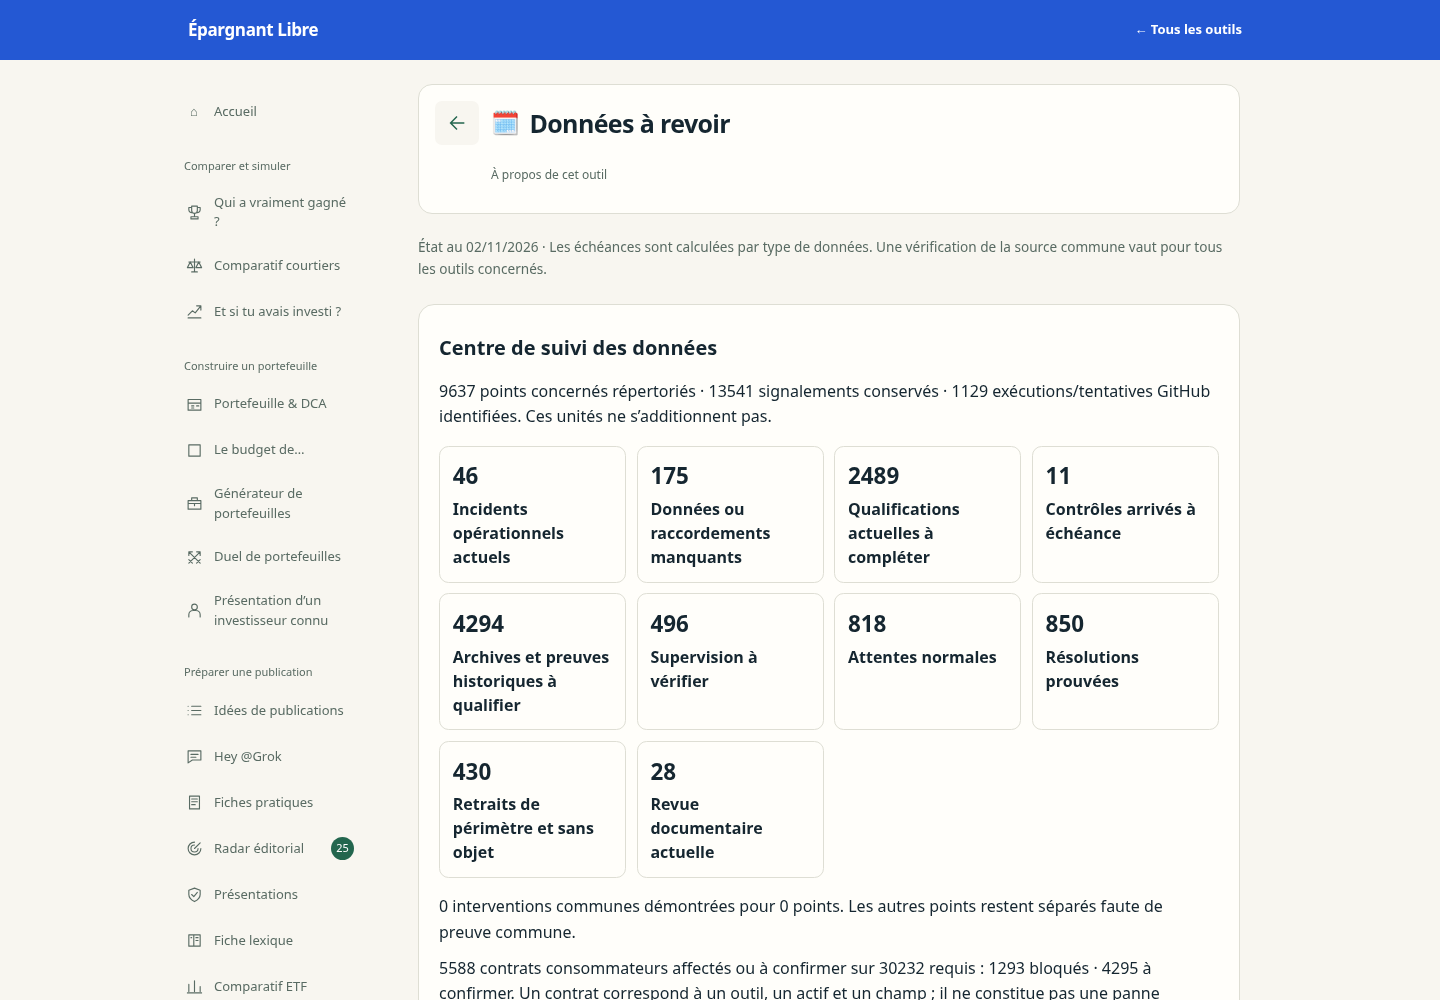
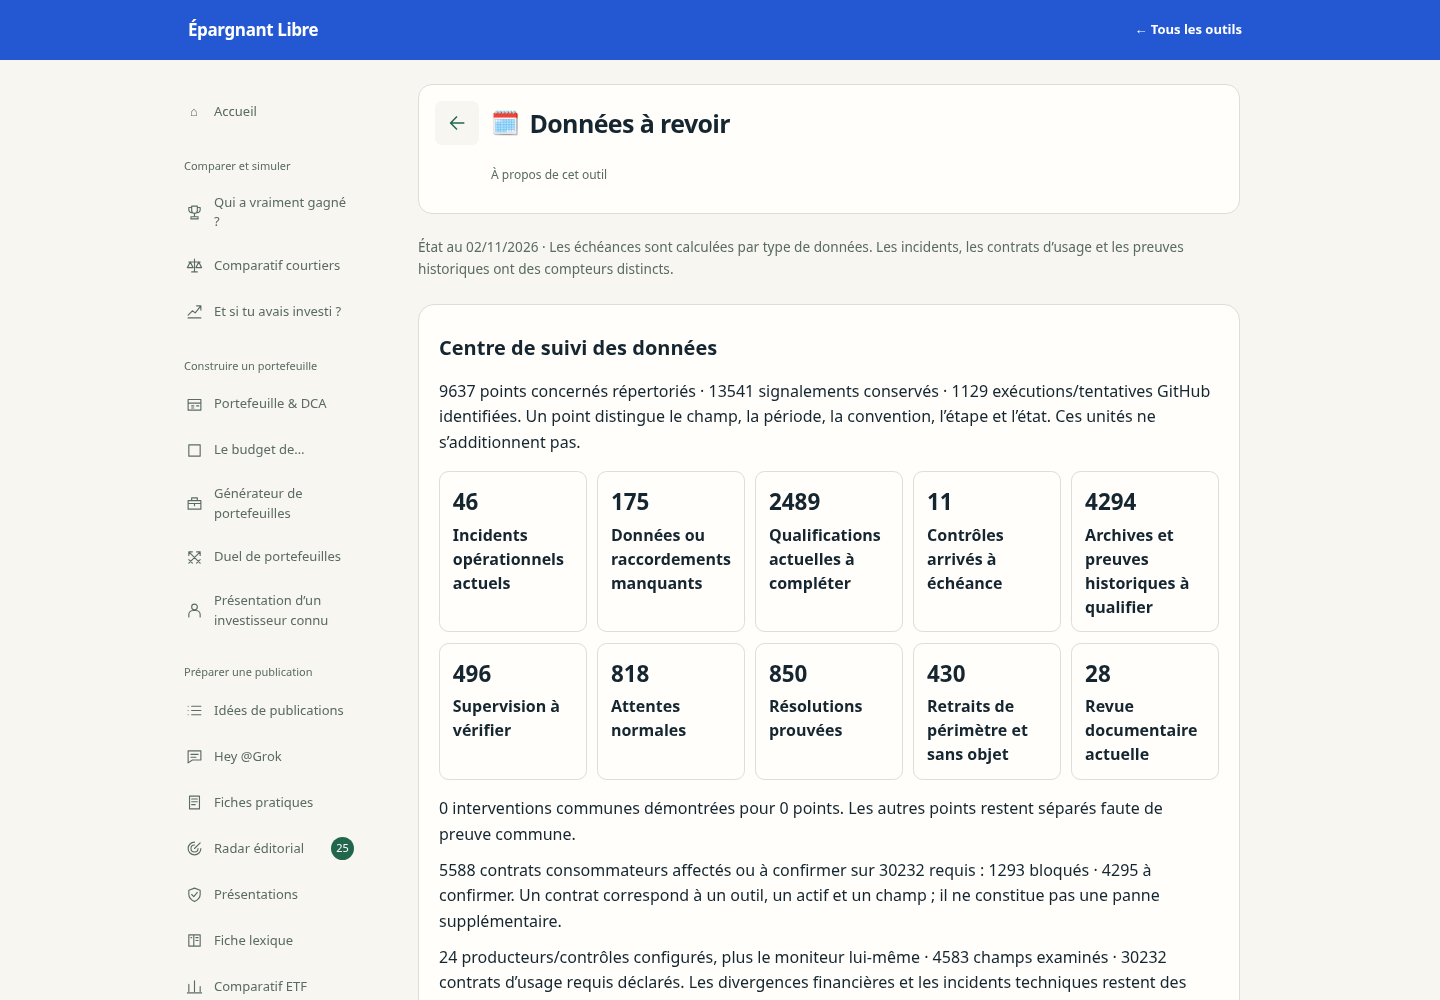
Verify source document journeys and retain exact diagnostic links

diff --git a/src/pages/data-review/ReviewInbox.jsx b/src/pages/data-review/ReviewInbox.jsx
@@ -36,6 +36,6 @@ export default function ReviewInbox({status,transportError,review}){
  const groups=groupReviewIssues(rows)
  async function copy(row){const text=inboxDiagnostic(row);setCopied('');setManual(null);try{await navigator.clipboard.writeText(text);setCopied(row.id)}catch{setManual({id:row.id,text})}}
  function download(complete=false){const exported=complete?report.issues:rows;const blob=new Blob([JSON.stringify({generatedAt:new Date().toISOString(),monitorCheckedAt:status?.monitoring?.checkedAt,reportArchiveSchemaVersion:status?.reportArchiveSchemaVersion,reportScopeSchemaVersion:status?.reportScopeSchemaVersion,reportScopes:status?.reportScopes??{},filters:complete?{kind:'all'}:{query,kind,tool,stage},summary:report.summary,denominators:{fields:report.examinedFields,workflows:report.workflows,requiredConsumerContracts:report.requiredUsages},rows:exported},null,2)],{type:'application/json'});const url=URL.createObjectURL(blob);try{const a=document.createElement('a');a.href=url;a.download='donnees-a-revoir.json';a.click()}finally{setTimeout(()=>URL.revokeObjectURL(url),1000)}}
- const card=r=><article className="dr-item" key={r.id} id={'issue-'+encodeURIComponent(r.id)}><span className={'dr-badge '+(r.kind==='failure'?'dr-expired':action(r)?'dr-undated':'dr-neutral')}>{ISSUE_KINDS[r.kind]}</span><h3>{r.name} · {r.field}</h3><p>{r.cause}</p><p><strong>Étape :</strong> {r.stage}. {r.impact??'Ce signal concerne le champ et les usages ci-dessous ; les autres capacités restent distinctes.'}</p><dl><dt>Chantier responsable</dt><dd>{reviewOwner(r)}</dd><dt>Impact</dt><dd>{r.impactState??'À qualifier : seuls les usages explicitement liés sont indiqués'}</dd><dt>Actif / identifiant</dt><dd>{r.asset??r.dataId??r.id}</dd><dt>{r.impactQualified===false?'Périmètre des outils, impact à qualifier':'Outils concernés'}</dt><dd>{r.tools.join(' · ')||'Périmètre à documenter'}</dd><dt>Dernière valeur valide</dt><dd>{r.lastValidValue!=null?JSON.stringify(r.lastValidValue):'Valeur non fournie par ce rapport ; consulter la donnée liée'}</dd><dt>Dernière donnée valide / période</dt><dd>{r.asOf??'Non documentée'}</dd><dt>Dernier contrôle réussi</dt><dd>{r.lastSuccessAt??r.checkedAt??'Non documenté'}</dd><dt>Dernière tentative</dt><dd>{r.attemptedAt??'Non documentée'}</dd><dt>Preuve nécessaire pour clôturer</dt><dd>{closureRequirement(r)}</dd><dt>Reprise</dt><dd>{r.kind==='waiting'?(r.workflow?'Suivre l’exécution GitHub liée':'Suivre le calendrier de publication'):r.kind==='not-applicable'||r.kind==='history'||r.kind==='archive'?'Aucune reprise déduite de cet état historique':r.kind==='editorial'?'Relecture éditoriale à l’échéance':r.recovery?.status??'Intervention / contrôle du producteur nécessaire'}{r.recovery?.nextAttemptAt&&' · '+r.recovery.nextAttemptAt}</dd></dl><p>{r.action??'Consulter les sources et l’exécution ; une nouvelle tentative ne démontre pas la résolution.'}</p><details><summary>{r.signals.length} signalement(s) et preuves conservés</summary>{r.signals.map(s=><div key={s.id}><p>Chantier : {reviewOwner(s)} · {s.id} · {s.cause} · période {s.asOf??'non documentée'} · contrôle {s.lastSuccessAt??s.checkedAt??'non documenté'}</p>{s.collectorTools?.length>0&&<p>Périmètre du collecteur, impact individuel non établi : {s.collectorTools.join(' · ')}</p>}{s.evidence&&<pre>Preuve du rapport : {JSON.stringify(s.evidence,null,2)}</pre>}{s.observations?.length>0&&<details><summary>{s.observations.length} observations et tentatives conservées</summary><pre>{JSON.stringify(s.observations,null,2)}</pre></details>}</div>)}{r.sourceUrls.filter(safeUrl).map(url=><p key={url}><a href={url} target="_blank" rel="noreferrer">{url}</a></p>)}</details><div className="dr-links"><button onClick={()=>copy(r)}>Copier le diagnostic complet</button>{safeUrl(r.runUrl)&&<a href={r.runUrl} target="_blank" rel="noreferrer">Exécution et journaux ↗</a>}{r.to&&/^\/(?!\/)/.test(r.to)&&r.to!=='/donnees-a-revoir'&&<Link to={r.to}>Ouvrir les données</Link>}</div>{copied===r.id&&<p role="status">Diagnostic copié.</p>}{manual?.id===r.id&&<label>Copie automatique indisponible<textarea aria-label="Diagnostic complet à copier" readOnly value={manual.text} onFocus={e=>e.target.select()}/></label>}</article>
+ const card=r=><article className="dr-item" key={r.id} id={'issue-'+encodeURIComponent(r.id)}><span className={'dr-badge '+(r.kind==='failure'?'dr-expired':action(r)?'dr-undated':'dr-neutral')}>{ISSUE_KINDS[r.kind]}</span><h3>{r.name} · {r.field}</h3><p>{r.cause}</p><p><strong>Étape :</strong> {r.stage}. {r.impact??'Ce signal concerne le champ et les usages ci-dessous ; les autres capacités restent distinctes.'}</p><dl><dt>Chantier responsable</dt><dd>{reviewOwner(r)}</dd><dt>Impact</dt><dd>{({blocked:'Bloqué',partial:'Partiel',secured:'Usage actuel assuré',unqualified:'À qualifier'}[r.impactState]??'À qualifier : seuls les usages explicitement liés sont indiqués')}</dd><dt>Actif / identifiant</dt><dd>{r.asset??r.dataId??r.id}</dd><dt>{r.impactQualified===false?'Périmètre des outils, impact à qualifier':'Outils concernés'}</dt><dd>{r.tools.join(' · ')||'Périmètre à documenter'}</dd><dt>Dernière valeur valide</dt><dd>{r.lastValidValue!=null?JSON.stringify(r.lastValidValue):'Valeur non fournie par ce rapport ; consulter la donnée liée'}</dd><dt>Dernière donnée valide / période</dt><dd>{r.asOf??'Non documentée'}</dd><dt>Dernier contrôle réussi</dt><dd>{r.lastSuccessAt??r.checkedAt??'Non documenté'}</dd><dt>Dernière tentative</dt><dd>{r.attemptedAt??'Non documentée'}</dd><dt>Preuve nécessaire pour clôturer</dt><dd>{closureRequirement(r)}</dd><dt>Reprise</dt><dd>{r.kind==='waiting'?(r.workflow?'Suivre l’exécution GitHub liée':'Suivre le calendrier de publication'):r.kind==='not-applicable'||r.kind==='history'||r.kind==='archive'?'Aucune reprise déduite de cet état historique':r.kind==='editorial'?'Relecture éditoriale à l’échéance':r.recovery?.status??'Intervention / contrôle du producteur nécessaire'}{r.recovery?.nextAttemptAt&&' · '+r.recovery.nextAttemptAt}</dd></dl><p>{r.action??'Consulter les sources et l’exécution ; une nouvelle tentative ne démontre pas la résolution.'}</p><details><summary>{r.signals.length} signalement(s) et preuves conservés</summary>{r.signals.map(s=><div key={s.id}><p>Chantier : {reviewOwner(s)} · {s.id} · {s.cause} · période {s.asOf??'non documentée'} · contrôle {s.lastSuccessAt??s.checkedAt??'non documenté'}</p>{s.collectorTools?.length>0&&<p>Périmètre du collecteur, impact individuel non établi : {s.collectorTools.join(' · ')}</p>}{s.evidence&&<pre>Preuve du rapport : {JSON.stringify(s.evidence,null,2)}</pre>}{s.observations?.length>0&&<details><summary>{s.observations.length} observations et tentatives conservées</summary><pre>{JSON.stringify(s.observations,null,2)}</pre></details>}</div>)}{r.sourceUrls.filter(safeUrl).map(url=><p key={url}><a href={url} target="_blank" rel="noreferrer">{url}</a></p>)}</details><div className="dr-links"><button onClick={()=>copy(r)}>Copier le diagnostic complet</button>{safeUrl(r.runUrl)&&<a href={r.runUrl} target="_blank" rel="noreferrer">Exécution et journaux ↗</a>}{r.to&&/^\/(?!\/)/.test(r.to)&&r.to!=='/donnees-a-revoir'&&<Link to={r.to}>Ouvrir les données</Link>}</div>{copied===r.id&&<p role="status">Diagnostic copié.</p>}{manual?.id===r.id&&<label>Copie automatique indisponible<textarea aria-label="Diagnostic complet à copier" readOnly value={manual.text} onFocus={e=>e.target.select()}/></label>}</article>
  return <section className="dr-inbox" aria-label="Tous les problèmes de données"><h2>Centre de suivi des données</h2>{(!report.health.ok||transportError)&&<p className="dr-health-error" role="alert">{transportError?String(transportError):report.health.reason}</p>}{Object.keys(documents).length<4&&!Object.keys(errors).length&&<p role="status">Chargement des preuves et des contrats consommateurs…</p>}<p>{report.summary.points} points concernés répertoriés · {report.summary.signals} signalements conservés · {report.summary.attempts} exécutions/tentatives GitHub identifiées. Un point distingue le champ, la période, la convention, l’étape et l’état. Ces unités ne s’additionnent pas.</p><div className="dr-category-counts" aria-label="Résumé des situations">{Object.entries(ISSUE_KINDS).map(([key,label])=><button key={key} type="button" aria-pressed={kind===key} onClick={()=>{setKind(key);setQuery('');setTool('');setStage('')}}><strong>{report.summary.categories[key]??0}</strong><span>{label}</span></button>)}</div><p>{report.summary.commonInterventions} interventions communes démontrées pour {report.summary.pointsInCommonInterventions} points. Les autres points restent séparés faute de preuve commune.</p><p>{report.summary.consumerContracts} contrats consommateurs affectés ou à confirmer sur {report.requiredUsages??'—'} requis : {report.summary.consumerStates.blocked??0} bloqués · {report.summary.consumerContracts-(report.summary.consumerStates.blocked??0)} à confirmer. Un contrat correspond à un outil, un actif et un champ ; il ne constitue pas une panne supplémentaire.</p><p>{report.workflows} producteurs/contrôles configurés, plus le moniteur lui-même · {report.examinedFields??'couverture non chargée'} champs examinés · {report.requiredUsages??'usages non chargés'} contrats d’usage requis déclarés. Les divergences financières et les incidents techniques restent des périmètres distincts.</p><div className="dr-controls"><label>Recherche globale des problèmes<input type="search" value={query} onChange={e=>setQuery(e.target.value)} placeholder="Actif, ISIN, champ, cause ou outil"/></label></div><details className="dr-inbox-filters"><summary>Filtrer par classe, outil ou étape</summary><div className="dr-controls"><label>Classe du problème<ChoicePicker value={kind} onChange={e=>setKind(e.target.value)}><option value="action">Incidents actuels et données manquantes</option><option value="all">Tous les états, y compris attentes et archives</option>{Object.entries(ISSUE_KINDS).map(([k,v])=><option key={k} value={k}>{v}</option>)}</ChoicePicker></label><label>Outil concerné<ChoicePicker value={tool} onChange={e=>setTool(e.target.value)}><option value="">Tous les outils</option>{tools.map(t=><option key={t} value={t}>{t}</option>)}</ChoicePicker></label><label>Étape du problème<ChoicePicker value={stage} onChange={e=>setStage(e.target.value)}><option value="">Toutes les étapes</option>{stages.map(s=><option key={s} value={s}>{s}</option>)}</ChoicePicker></label></div></details><label><input type="checkbox" checked={grouped} onChange={e=>setGrouped(e.target.checked)}/>Regrouper les interventions démontrées, avec tous les champs et preuves</label><p role="status">{query.trim()?'Recherche dans tous les états · ':kind==='action'?'Vue initiale : incidents, données manquantes et supervision · ':''}{rows.length} points correspondant aux filtres · {[...groups.values()].filter(rs=>rs.length>1).length} interventions communes démontrées. Une cause commune exige la preuve de la même étape ou du même rapport ; les causes non établies restent séparées.</p><button onClick={()=>download()}>Exporter les {rows.length} diagnostics filtrés (JSON)</button><button onClick={()=>download(true)}>Exporter tous les {report.issues.length} diagnostics et preuves (JSON)</button><PagedList key={[query,kind,tool,stage,grouped].join('|')} label="Pages des problèmes de données" items={grouped?[...groups]:rows} renderItem={grouped?([id,rs])=><details key={id}><summary>{ISSUE_KINDS[rs[0].kind]} · {rs.length} points · {rs[0].cause}</summary><PagedList label="Pages des champs regroupés" items={rs} renderItem={card}/></details>:card}/>{!rows.length&&<p>Aucun point pour ces filtres. Cette sélection ne certifie pas les sources non observées.</p>}</section>
 }

diff --git a/src/pages/data-review/review-inbox.js b/src/pages/data-review/review-inbox.js
@@ -63,7 +63,7 @@ export function buildInbox({status,inventory,coverage,financial,review,failures=
  inventory=decodeReviewProjection(inventory)
  const consumerTools=new Map(Object.entries(inventory?.fieldConsumers??{}).map(([key,names])=>[key,inventory.toolNames?names.map(i=>inventory.toolNames[i]):names]))
  for(const t of inventory?.consumerUsage?.tools??[])for(const r of t.rows??[])if(r.required){const key=r.id+':'+r.key;consumerTools.set(key,[...new Set([...(consumerTools.get(key)??[]),t.name??t.path])])}
- const rows=[],add=r=>{const item={...r,to:Object.values(retired.workflows).some(v=>r.to?.startsWith(v.tool))?undefined:r.to,stage:r.stage??phase(r.kind),tools:Array.isArray(r.tools)?r.tools:[],sourceUrls:Array.isArray(r.sourceUrls)?r.sourceUrls.filter(u=>typeof u==='string'):[]};for(const k of ['name','field','cause','asOf','checkedAt','attemptedAt','lastSuccessAt','asset'])if(item[k]!=null&&typeof item[k]!=='string'){item[k]='Format invalide : '+JSON.stringify(item[k]);item.kind='monitoring'};rows.push(item)}
+ const rows=[],add=r=>{const item={...r,to:Object.values(retired.workflows).some(v=>r.to?.startsWith(v.tool))?undefined:r.to&&r.to!=='/donnees-a-revoir'?r.to:r.asset?'/bibliotheque-donnees?id='+encodeURIComponent(r.asset):r.to,stage:r.stage??phase(r.kind),tools:Array.isArray(r.tools)?r.tools:[],sourceUrls:Array.isArray(r.sourceUrls)?r.sourceUrls.filter(u=>typeof u==='string'):[]};for(const k of ['name','field','cause','asOf','checkedAt','attemptedAt','lastSuccessAt','asset'])if(item[k]!=null&&typeof item[k]!=='string'){item[k]='Format invalide : '+JSON.stringify(item[k]);item.kind='monitoring'};rows.push(item)}
  const health=monitorHealth(status,now)
  if(!health.ok||failures.monitor)add({id:'health:monitor',name:'Système de surveillance',field:'État du moniteur',kind:'monitoring',cause:failures.monitor??health.reason})
  for(const[key,cause]of Object.entries(failures))if(key!=='monitor')add({id:'health:'+key,name:'Lecture du bilan · '+key,field:'Preuve attendue',kind:'monitoring',cause})
@@ -97,7 +97,7 @@ export function buildInbox({status,inventory,coverage,financial,review,failures=
   const match=r.id.match(/^field:(?:gap:)?([^:]+):([^:]+):([^:]+)$/)
   const metadata=String(r.dataId??'').match(/^([A-Z]{2}[A-Z0-9]{10}):([^:]+)$/),holdings=String(r.dataId??'').match(/^dca-holdings:([A-Z]{2}[A-Z0-9]{10})$/)
   const usageKey=match?`${match[2]}:coverage:${match[3]}`:metadata?`${metadata[1]}:coverage:${metadata[2]}`:holdings?`${holdings[1]}:coverage:completeHoldings`:null
-  add({...r,members:r.members??r.attemptedDataIds,impactQualified:consumerTools.has(usageKey),impact:proofPending?'Dernier incident connu conservé sans preuve suffisante de résolution ; aucune nouvelle panne déduite. La contradiction ou la période initiale reste à qualifier.':consumerTools.has(usageKey)?r.impact:'Le lien de ce champ aux usages reste à qualifier. La liste donne le périmètre de l’actif ou du collecteur ; elle ne prouve pas que chacun de ses calculs est affecté.',...(proofPending?{qualificationBlock:'historical-resolution-unproven'}:{}),tools:consumerTools.get(usageKey)??[],collectorTools:r.tools,kind,stage:proofPending?'Qualification historique':r.kind==='publication'?'Publication':/Commit validated|Enregistrement/i.test(r.cause??'')?'Enregistrement':r.kind==='checks'?(/build|projection|génér/i.test(r.cause??'')?'Génération':'Validation'):phase(kind),key:r.id.startsWith('calendar:')?r.id:match?`${match[1]}:${match[2]}:${match[3]}`:r.id.startsWith('field:gap:usage:')?r.id.slice('field:gap:'.length):metadata?`instrument:${metadata[1]}:${metadata[2]}`:holdings?`instrument:${holdings[1]}:completeHoldings`:r.id,attemptedAt:r.attemptedAt??r.sourcePhaseStartedAt??r.evidence?.sourcePhaseStartedAt,recovery:status?.recovery?.[r.workflow]})
+  add({...r,asset:r.asset??match?.[2]??metadata?.[1]??holdings?.[1],members:r.members??r.attemptedDataIds,impactQualified:consumerTools.has(usageKey),impact:proofPending?'Dernier incident connu conservé sans preuve suffisante de résolution ; aucune nouvelle panne déduite. La contradiction ou la période initiale reste à qualifier.':consumerTools.has(usageKey)?r.impact:'Le lien de ce champ aux usages reste à qualifier. La liste donne le périmètre de l’actif ou du collecteur ; elle ne prouve pas que chacun de ses calculs est affecté.',...(proofPending?{qualificationBlock:'historical-resolution-unproven'}:{}),tools:consumerTools.get(usageKey)??[],collectorTools:r.tools,kind,stage:proofPending?'Qualification historique':r.kind==='publication'?'Publication':/Commit validated|Enregistrement/i.test(r.cause??'')?'Enregistrement':r.kind==='checks'?(/build|projection|génér/i.test(r.cause??'')?'Génération':'Validation'):phase(kind),key:r.id.startsWith('calendar:')?r.id:match?`${match[1]}:${match[2]}:${match[3]}`:r.id.startsWith('field:gap:usage:')?r.id.slice('field:gap:'.length):metadata?`instrument:${metadata[1]}:${metadata[2]}`:holdings?`instrument:${holdings[1]}:completeHoldings`:r.id,attemptedAt:r.attemptedAt??r.sourcePhaseStartedAt??r.evidence?.sourcePhaseStartedAt,recovery:status?.recovery?.[r.workflow]})
  }
  for(const r of status?.monitoring?.resolved??[])if(r&&typeof r.id==='string'){
   const withdrawal=retired.workflows[r.workflow]

diff --git a/src/pages/data-review/MonitoringIncidents.jsx b/src/pages/data-review/MonitoringIncidents.jsx
@@ -31,7 +31,7 @@ export default function MonitoringIncidents({ monitor }) {
   const renderIncident=row=><article className="dr-item" key={row.id}>
       <span className={`dr-badge ${row.proofStatus==='resolution-unproven'||['scope-removed','resolved','historical'].includes(row.kind)?'dr-neutral':['overdue', 'unobserved', 'freshness', 'review', 'checks'].includes(row.kind) ? 'dr-undated' : 'dr-expired'}`}>{row.proofStatus==='resolution-unproven'?'Archive sans preuve de résolution':labels[row.kind] ?? 'À vérifier'}</span><h3>{row.name}</h3>
       <p>{row.field} — {row.cause}</p><p>{row.impactScope === 'collector' ? 'Périmètre du collecteur' : row.impactScope === 'catalog' ? 'Bibliothèque de données' : 'Outils utilisant cet actif'} : {(row.tools ?? []).join(', ') || 'Raccordement non documenté'}.</p>
-      <dl><dt>Détecté depuis</dt><dd>{date(row.firstSeenAt)}</dd><dt>Dernier contrôle de collecte réussi</dt><dd>{date(incidentSuccessAt(row))}</dd>{row.attemptedAt && <><dt>Dernière tentative de collecte</dt><dd>{date(row.attemptedAt)}</dd></>}<dt>Période conservée</dt><dd>{row.asOf ?? 'Non documentée'}</dd>{row.dataId && <><dt>Identifiant</dt><dd>{row.dataId}</dd></>}{row.dueAt && <><dt>Échéance</dt><dd>{row.dueAt}</dd></>}</dl>
+      <dl><dt>Identifiant du signalement</dt><dd>{row.id}</dd><dt>Détecté depuis</dt><dd>{date(row.firstSeenAt)}</dd><dt>Dernier contrôle de collecte réussi</dt><dd>{date(incidentSuccessAt(row))}</dd>{row.attemptedAt && <><dt>Dernière tentative de collecte</dt><dd>{date(row.attemptedAt)}</dd></>}<dt>Période conservée</dt><dd>{row.asOf ?? 'Non documentée'}</dd>{row.dataId && <><dt>Identifiant</dt><dd>{row.dataId}</dd></>}{row.dueAt && <><dt>Échéance</dt><dd>{row.dueAt}</dd></>}</dl>
       {row.signals.length>1&&<details><summary>{row.signals.length} signalements conservés pour cette donnée</summary>{row.signals.map(signal=><p key={signal.id}>{signal.id} · {signal.cause} · dernier signalement : {date(signal.lastSeenAt)}{safeLink(signal.runUrl)&&<> · <a href={signal.runUrl} target="_blank" rel="noreferrer">Exécution ↗</a></>}</p>)}</details>}
       <p><strong>Action à mener :</strong> {incidentAction(row.kind)}</p>
       <div className="dr-links"><button type="button" onClick={() => copy(row)}>Copier le diagnostic</button>
